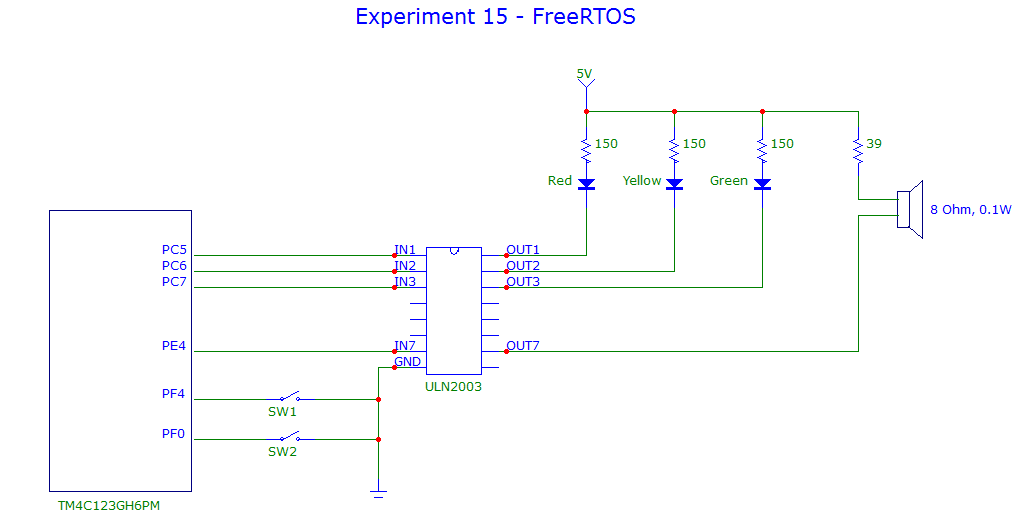
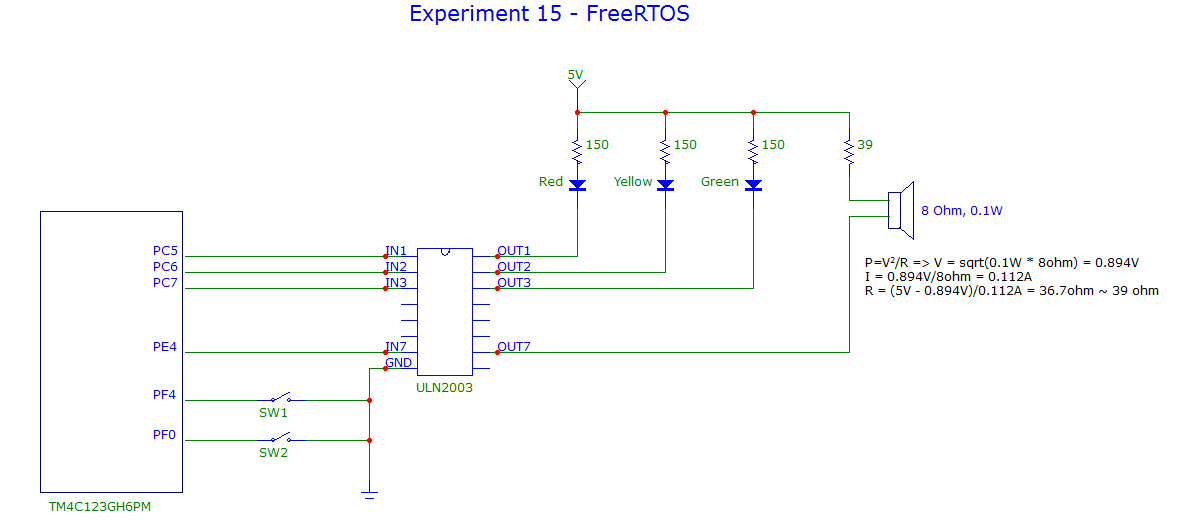
Updated circuit and readme

diff --git a/Experiment15-FreeRTOS/project.c b/Experiment15-FreeRTOS/project.c
@@ -2,7 +2,7 @@
 // Author: JSpicer
 // Date:  2/4/18
 // Purpose: Main project file.  This program experiments with FreeRTOS and 
-//	create periodic tasks to toggle LEDs and an aperiodic task to play
+//	creates periodic tasks to toggle LEDs and an aperiodic task to play
 //	a musical note sequence using PWM.
 // Hardware:  TM4C123 Tiva board
 

diff --git a/Experiment15-FreeRTOS/Readme.md b/Experiment15-FreeRTOS/Readme.md
@@ -1,6 +1,13 @@
 # Experiment15-FreeRTOS
 
 ## Overview
-In progress...
+This experiment tries out FreeRTOS on the TM4C123 board, as well as GPIO interrupts and playing musical sounds using PWM.  The goal was to create some periodic tasks and preempt them aperiodically, to see if they suffered any noticeable jitter.
+
+The firmware application creates three tasks that blink red, green, and yellow LEDs at different periods, while another task plays a musical sequence on the speaker when one of the onboard switches is pressed .  The tasks controlling the LEDs all have the same (lowest) priority, whereas the task that plays the sounds runs at a higher priority, and this effectively preempts the other tasks each time a note is played.  An ISR, which runs on the falling edge of one of the switches, "gives" a binary semaphore that the high priority task "takes".  Hence, the ISR defers control to a task rather than do the processing itself.
+
+The hardware circuit uses a ULN2003 Darlington array that acts as a low-side driver, sinking current for the LEDs and speaker.  A PWM output drives the speaker at different frequencies to create the musical notes.
+
+[![](https://i.ytimg.com/vi/h58GzA-6aEo/3.jpg)](https://youtu.be/h58GzA-6aEo)<br>
+[Watch the video](https://youtu.be/h58GzA-6aEo)
 
 ![Experiment15-FreeRTOS](Experiment15-FreeRTOS-circuit.png)  
